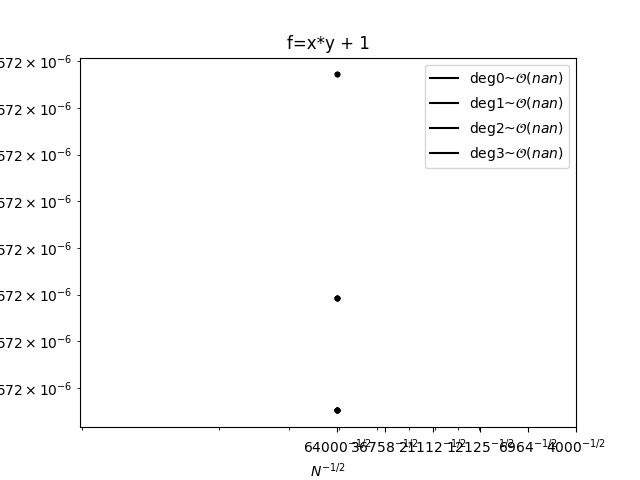
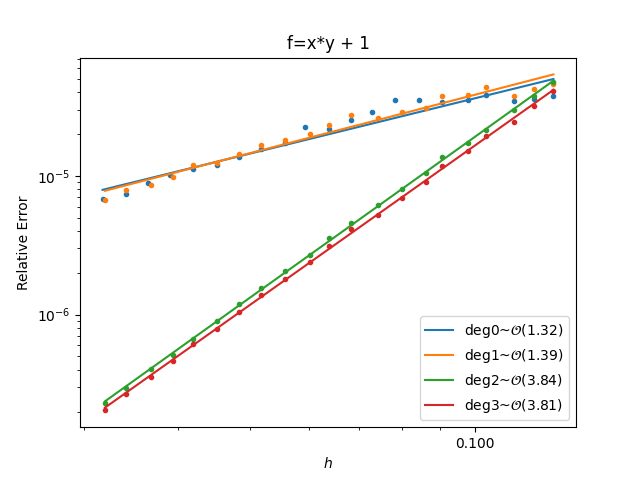
torus test convergence plots

diff --git a/drivers/surface/torus_test1.py b/drivers/surface/torus_test1.py
@@ -141,30 +141,31 @@ if False:
 
 for test_func in test_functions:
     my_res = [result for result in results if result.test_func == str(test_func)]
-    hs = [result.N**-0.5 for result in my_res]
-    ns = [result.N for result in my_res]
     for poly_deg, color in zip(poly_degs, TABLEAU_COLORS):
+        my_res = [
+            result
+            for result in results
+            if result.test_func == str(test_func) and result.poly_deg == poly_deg
+        ]
+        hs = [result.h for result in my_res]
+        ns = [result.N for result in my_res]
         errs = [result.error for result in my_res]
         fit = linregress(np.log(hs), np.log(errs))
         plt.figure(f"{test_func=}")
-        plt.loglog(hs, errs, "k.")
+        plt.loglog(hs, errs, ".", color=color)
         plt.loglog(
             hs,
             [np.exp(fit.intercept + np.log(h) * fit.slope) for h in hs],
-            "k-",
+            "-",
+            color=color,
             label=f"deg{poly_deg}~$\\mathcal{{O}}({fit.slope:.2f})$",
         )
         plt.legend()
-        plt.loglog(
-            [res.N**-0.5 for res in results], [res.error for res in results], "k."
-        )
 
     plt.title(f"f={test_func}")
     plt.ylabel("Relative Error")
-    plt.xlabel("$N^{-1/2}$")
+    plt.xlabel("$h$")
     plt.gca().xaxis.set_major_formatter(ScalarFormatter())
     plt.gca().xaxis.set_minor_formatter(NullFormatter())
-    plt.xticks()
-    plt.xticks([n**-0.5 for n in Ns[::4]], [f"${n}^{{-1/2}}$" for n in Ns[::4]])
 
     plt.savefig(f"media/torus_{test_func}.png")
